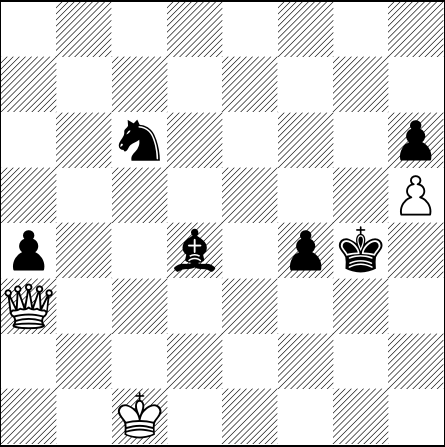
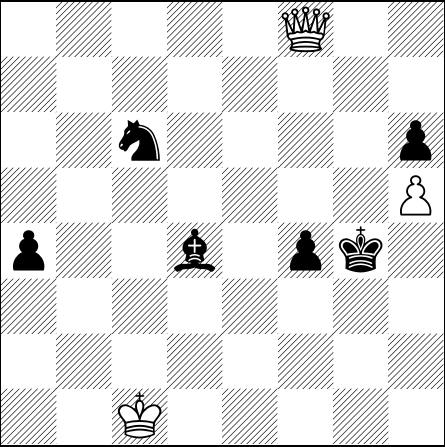
[automated] Regenerate text/pdf for chessboard

Changed region(s): [[0.6135, 0.0, 0.7596, 0.1163], [0.0, 0.6398, 0.1169, 0.7562]]

diff --git a/default_filepath.tex b/default_filepath.tex
@@ -13,6 +13,6 @@
 \normalsize%
 \setchessboard{showmover=false}%
 \newgame%
-\fenboard{8/8/2n4p/7P/p2b1pk1/Q7/8/2K5 w - - 1 117}%
+\fenboard{5Q2/8/2n4p/7P/p2b1pk1/8/8/2K5 b - - 2 117}%
 \chessboard%
 \end{document}
